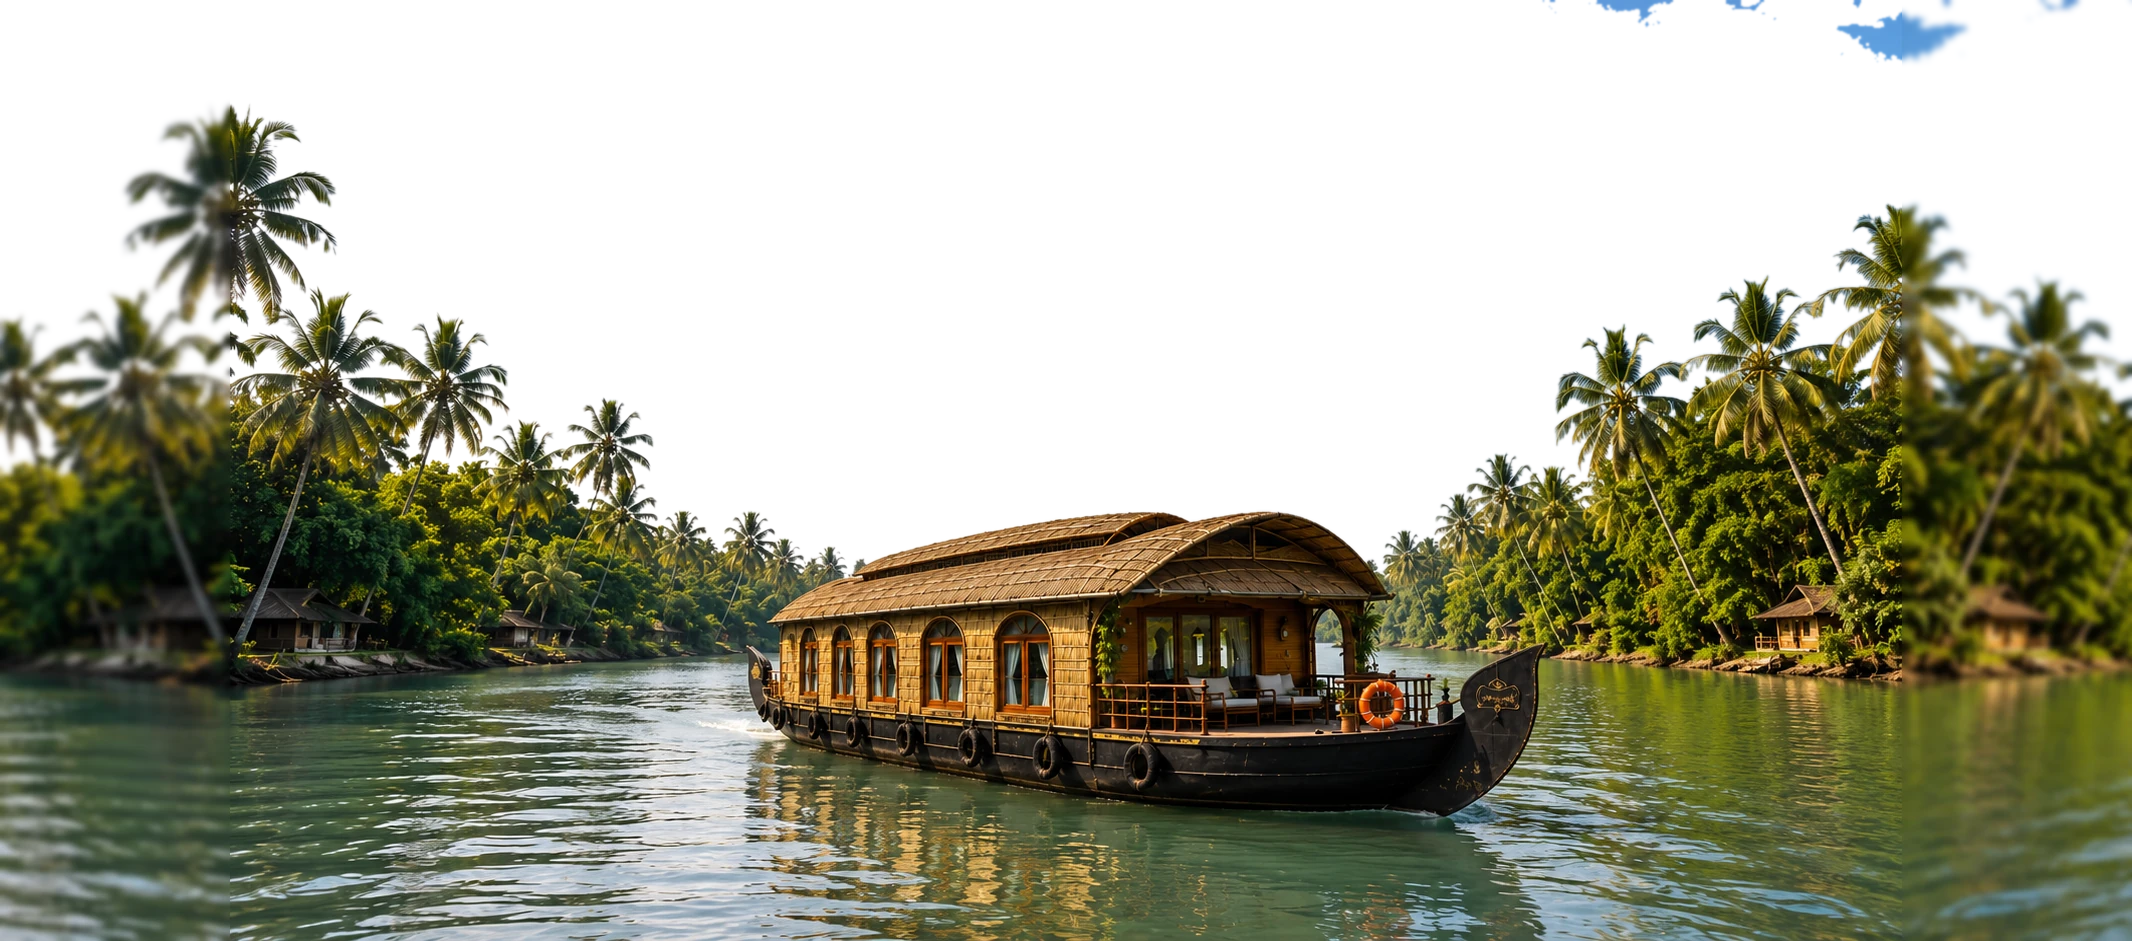
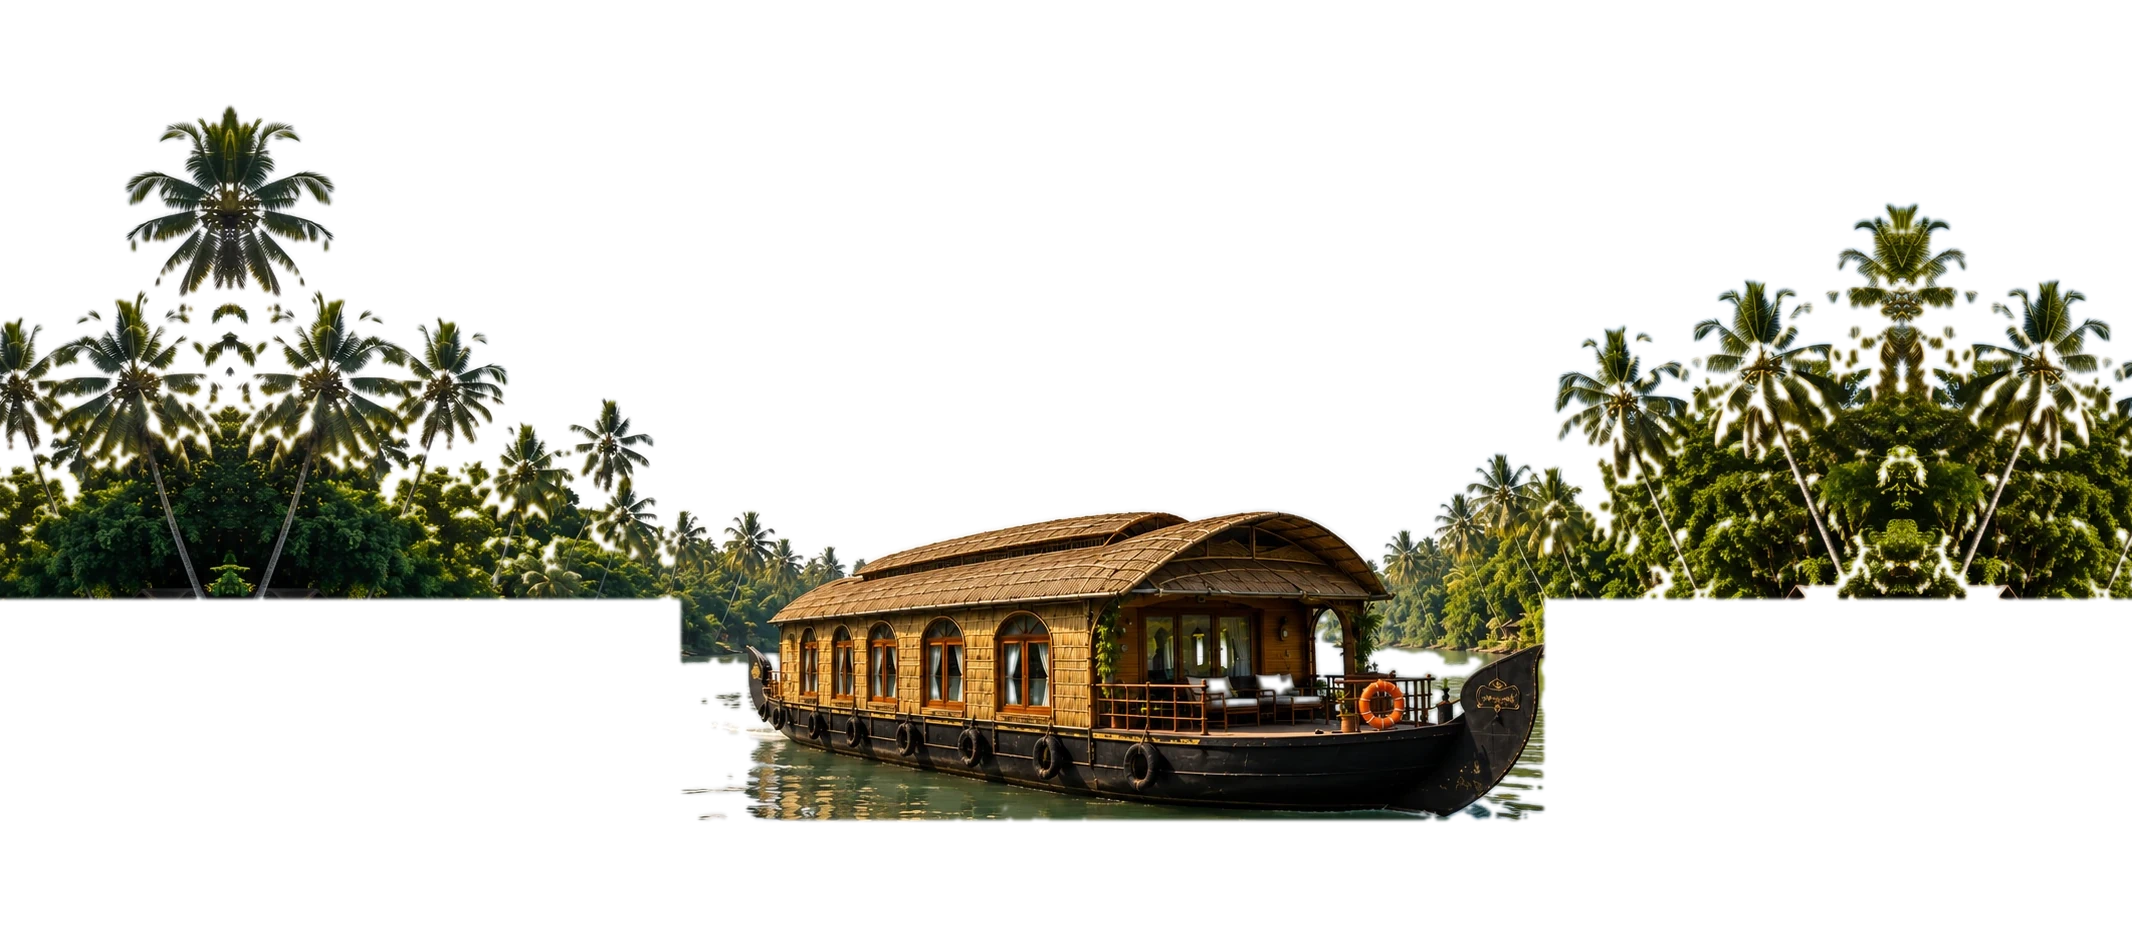
Fix blurred hero edges on desktop; raise HOUSEBOAT wordmark
- Re-widen the hero background and keyed foreground with a sharp mirror of
  the bank strips instead of a heavy Gaussian blur. The blurred left/right
  banks that showed on wide desktop screens are gone; a reflection mirror
  joins seamlessly at the seam and the whole boat stays in frame.
- Add only a whisper of edge shading so the extended banks recede naturally.
- Move the giant "Houseboat" wordmark up slightly (top 44% -> 40%) so it
  clears the boat roof while still tucking behind the palms and the boat.
- Bump asset cache-busting query to v=hero5.

Claude-Session: https://claude.ai/code/session_015tLgdssnuXee4mtgGrjdLZ

diff --git a/roxy-houseboat/index.html b/roxy-houseboat/index.html
@@ -23,7 +23,7 @@
   <link rel="preconnect" href="https://fonts.googleapis.com" />
   <link rel="preconnect" href="https://fonts.gstatic.com" crossorigin />
   <link href="https://fonts.googleapis.com/css2?family=Poppins:ital,wght@0,300;0,400;0,500;0,600;0,700;0,800;1,400;1,500&family=Playfair+Display:ital,wght@0,500;0,600;0,700;1,500;1,600&family=Lato:wght@300;400;700;900&family=Dancing+Script:wght@600;700&display=swap" rel="stylesheet" />
-  <link rel="stylesheet" href="/assets/css/home.css?v=hero4" />
+  <link rel="stylesheet" href="/assets/css/home.css?v=hero5" />
   <link rel="icon" href="/assets/images/logo.png" />
   <script type="application/ld+json">
 {
@@ -247,7 +247,7 @@
     <div class="hero__stage">
       <div class="hero__lux-bg" role="img"
            aria-label="A traditional Roxy houseboat drifting the calm Nileshwar backwaters, framed by tall coconut palms under a bright tropical sky"
-           style="background-image:url('/assets/images/hero-lux.webp?v=hero4')"></div>
+           style="background-image:url('/assets/images/hero-lux.webp?v=hero5')"></div>
       <!-- living water surface: light drifts and glints across the open water only.
            It sits BELOW the keyed foreground, so the boat + palms naturally mask it
            (the movement never runs over the boat hull or the tree banks). -->
@@ -260,7 +260,7 @@
       <!-- the palms + boat, keyed from the SAME photo and layered ON TOP, so the word
            tucks naturally BEHIND the trees and BEHIND the boat -->
       <div class="hero__lux-fg" aria-hidden="true"
-           style="background-image:url('/assets/images/hero-lux-fg.webp?v=hero4')"></div>
+           style="background-image:url('/assets/images/hero-lux-fg.webp?v=hero5')"></div>
     </div>
     <!-- LEFT (lower): intro copy -->
     <div class="hero__aerial-left">

diff --git a/roxy-houseboat/assets/css/home.css b/roxy-houseboat/assets/css/home.css
@@ -2423,7 +2423,7 @@ a.trust__cell:hover{background:var(--bg-2)}
 /* the giant editorial wordmark — italic, lightly skewed, sitting in the sky
    between the background photo (z1) and the keyed foreground (z3) */
 .hero--aerial .hero__word{
-  position:absolute;left:50%;top:44%;transform:translate(-50%,-50%);
+  position:absolute;left:50%;top:40%;transform:translate(-50%,-50%);
   z-index:2;white-space:nowrap;pointer-events:none;user-select:none;
   font-family:'Anton','Oswald','Arial Narrow',var(--display-hero),sans-serif;
   font-style:normal;font-weight:400;text-transform:uppercase;
